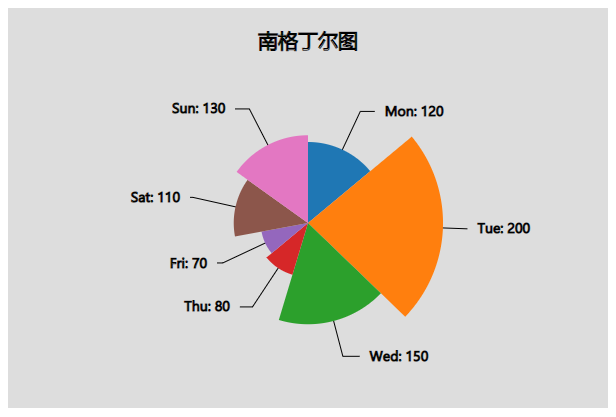
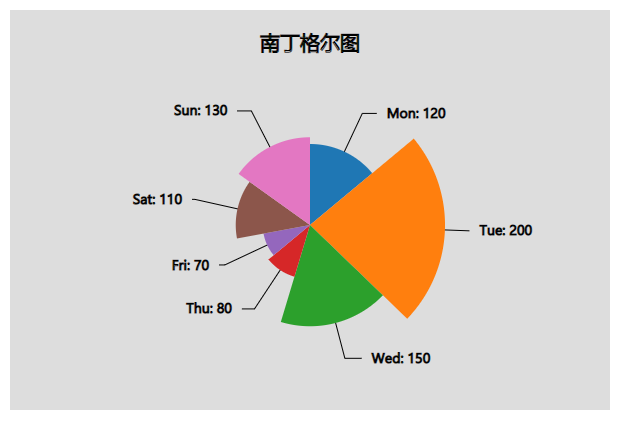
修改错误图名

diff --git a/src/pieChart/nightingale/index.js b/src/pieChart/nightingale/index.js
@@ -11,7 +11,7 @@ d3.csv('./data.csv', function(d){
     const config = {
         margins: {top: 80, left: 80, bottom: 50, right: 80},
         textColor: 'black',
-        title: '南格丁尔图',
+        title: '南丁格尔图',
         innerRadius: 0,
         textOffsetH: 10,
         lineColor: 'black',
